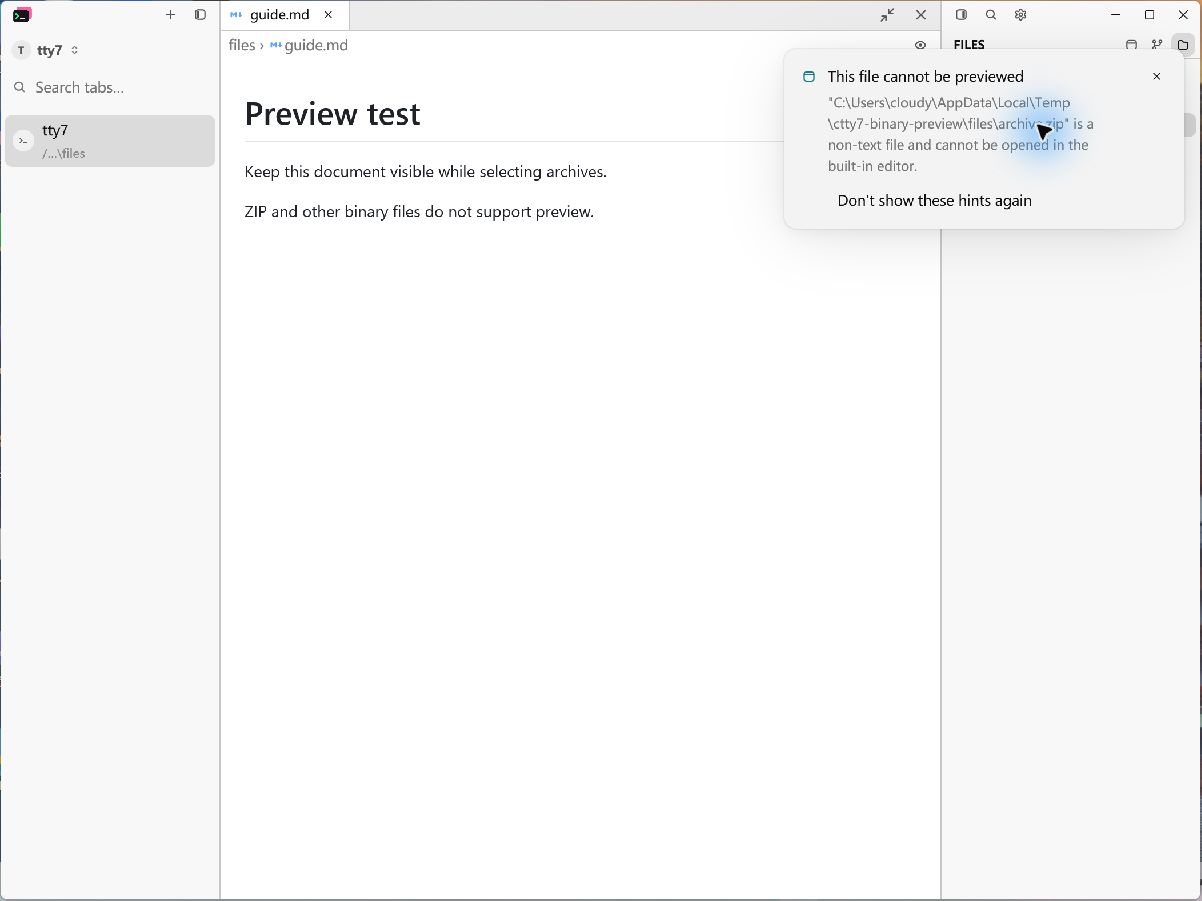
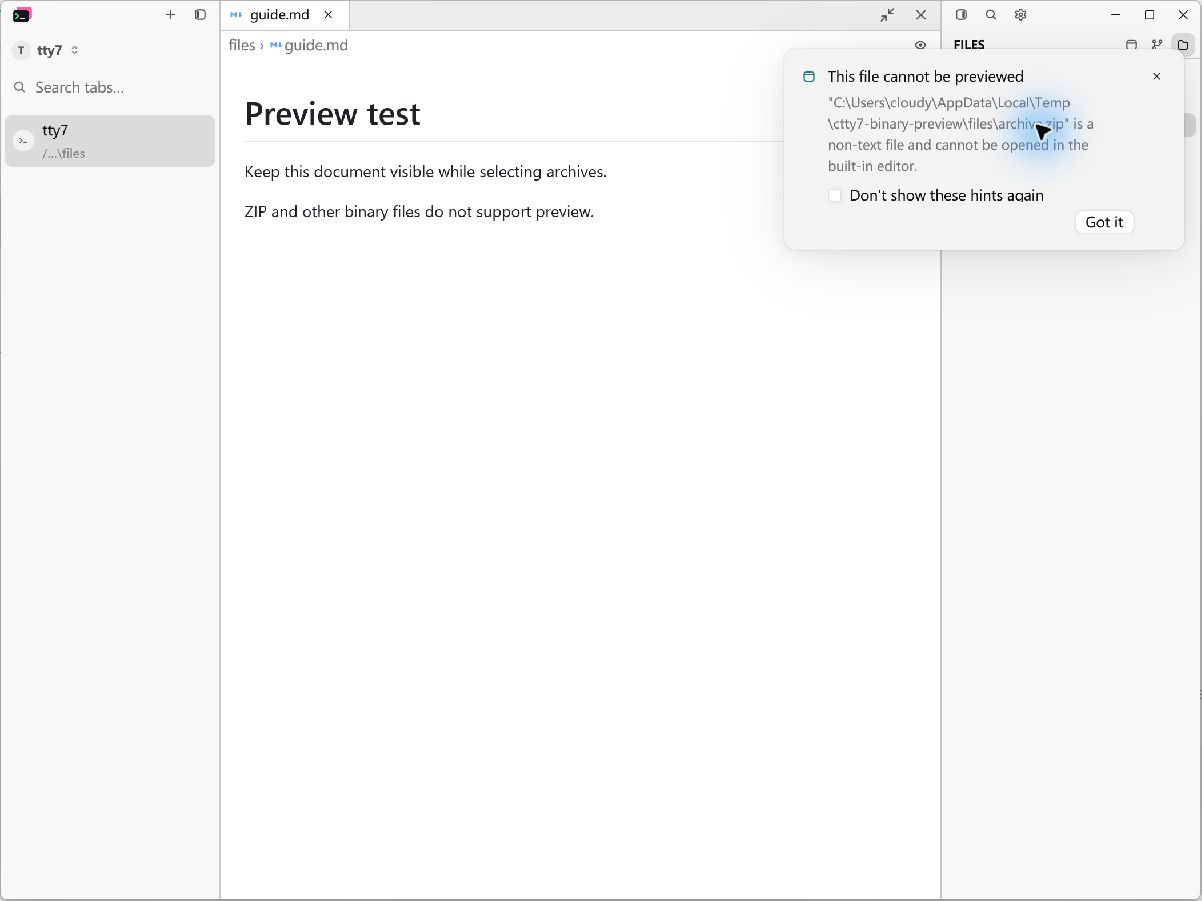
fix(editor): confirm preview opt-out with a checkbox

diff --git a/src/ui/code_editor.rs b/src/ui/code_editor.rs
@@ -10,6 +10,7 @@ use gpui::{
     div, px, rems,
 };
 use gpui_component::button::{Button, ButtonVariants as _};
+use gpui_component::checkbox::Checkbox;
 use gpui_component::input::{Input, InputEvent, InputState, Position, TabSize};
 use gpui_component::menu::ContextMenuExt as _;
 use gpui_component::notification::Notification;
@@ -742,6 +743,7 @@ impl Tty7App {
             return;
         }
         let app = cx.weak_entity();
+        let opt_out = cx.new(|_| false);
         window.push_notification(
             Notification::info(t_fmt(L10nKey::EditorBinaryFile, &[("path", path)]))
                 .title(t(L10nKey::EditorPreviewUnsupported))
@@ -749,20 +751,37 @@ impl Tty7App {
                 .autohide(false)
                 .content(move |_, _, cx| {
                     let app = app.clone();
-                    h_flex()
+                    let toggle_opt_out = opt_out.clone();
+                    let confirm_opt_out = opt_out.clone();
+                    v_flex()
                         .mt_2()
+                        .gap_2()
                         .child(
-                            Button::new("editor-hide-binary-notice")
+                            Checkbox::new("editor-hide-binary-notice")
                                 .debug_selector(|| "editor-hide-binary-notice".into())
-                                .ghost()
                                 .small()
                                 .label(t(L10nKey::EditorDontShowBinaryNotice))
-                                .on_click(cx.listener(move |notice, _, window, cx| {
-                                    let _ = app.update(cx, |app, cx| {
-                                        app.set_binary_file_notice(false, cx)
-                                    });
-                                    notice.dismiss(window, cx);
+                                .checked(*opt_out.read(cx))
+                                .on_click(cx.listener(move |_, checked: &bool, _, cx| {
+                                    toggle_opt_out.update(cx, |value, _| *value = *checked);
+                                    cx.notify();
                                 })),
+                        )
+                        .child(
+                            h_flex().justify_end().child(
+                                Button::new("editor-binary-notice-ok")
+                                    .debug_selector(|| "editor-binary-notice-ok".into())
+                                    .small()
+                                    .label(t(L10nKey::EditorPreviewDismiss))
+                                    .on_click(cx.listener(move |notice, _, window, cx| {
+                                        if *confirm_opt_out.read(cx) {
+                                            let _ = app.update(cx, |app, cx| {
+                                                app.set_binary_file_notice(false, cx)
+                                            });
+                                        }
+                                        notice.dismiss(window, cx);
+                                    })),
+                            ),
                         )
                         .into_any_element()
                 }),
@@ -2540,6 +2559,15 @@ mod tests {
         let mute = vcx.debug_bounds("editor-hide-binary-notice").unwrap();
         vcx.simulate_click(mute.center(), gpui::Modifiers::none());
         vcx.run_until_parked();
+        app.read_with(&vcx, |_, cx| {
+            assert!(
+                cx.global::<Config>().show_binary_file_notice,
+                "checking the box must not persist before confirmation"
+            );
+        });
+        let confirm = vcx.debug_bounds("editor-binary-notice-ok").unwrap();
+        vcx.simulate_click(confirm.center(), gpui::Modifiers::none());
+        vcx.run_until_parked();
         app.update_in(&mut vcx, |app, window, cx| {
             assert!(!cx.global::<Config>().show_binary_file_notice);
             let list = gpui_component::Root::read(window, cx).notification.clone();
@@ -2566,6 +2594,10 @@ mod tests {
             });
         }
         app.update_in(&mut vcx, |app, window, cx| {
+            gpui_component::Root::read(window, cx)
+                .notification
+                .clone()
+                .update(cx, |list, cx| list.clear(window, cx));
             app.set_binary_file_notice(true, cx);
             app.editor_binary_file_notice("restored.zip", window, cx);
             assert!(cx.global::<Config>().show_binary_file_notice);
@@ -2574,6 +2606,19 @@ mod tests {
                 crate::ui::app::OverlayTop::Diff
             );
             assert_eq!(app.tab_code().unwrap().files.len(), 1);
+        });
+        vcx.run_until_parked();
+        vcx.update(|window, cx| {
+            let _ = window.draw(cx);
+        });
+        let confirm = vcx.debug_bounds("editor-binary-notice-ok").unwrap();
+        vcx.simulate_click(confirm.center(), gpui::Modifiers::none());
+        vcx.run_until_parked();
+        app.read_with(&vcx, |_, cx| {
+            assert!(
+                cx.global::<Config>().show_binary_file_notice,
+                "confirming an unchecked box only dismisses this hint"
+            );
         });
     }
 

diff --git a/src/ui/i18n/ja.rs b/src/ui/i18n/ja.rs
@@ -1152,6 +1152,7 @@ pub fn translate_ja(key: L10nKey) -> Option<&'static str> {
         }
         L10nKey::EditorPreviewUnsupported => "このファイルはプレビューできません",
         L10nKey::EditorDontShowBinaryNotice => "今後この種類のヒントを表示しない",
+        L10nKey::EditorPreviewDismiss => "わかりました",
         L10nKey::SettingsBinaryFileNotice => "プレビュー非対応のヒントを表示",
         L10nKey::SettingsBinaryFileNoticeDesc => {
             "圧縮ファイルなど、テキスト以外のファイルを開く際に説明を表示します。読み取りエラーは常に表示されます。"

diff --git a/src/ui/i18n/zh.rs b/src/ui/i18n/zh.rs
@@ -1047,6 +1047,7 @@ pub fn translate_zh(key: L10nKey) -> Option<&'static str> {
         L10nKey::EditorBinaryFile => "“{path}”是非文本文件，无法在内置编辑器中打开。",
         L10nKey::EditorPreviewUnsupported => "此文件不支持预览",
         L10nKey::EditorDontShowBinaryNotice => "不再提示此类消息",
+        L10nKey::EditorPreviewDismiss => "知道了",
         L10nKey::SettingsBinaryFileNotice => "提示不支持预览的文件",
         L10nKey::SettingsBinaryFileNoticeDesc => {
             "点击压缩包等非文本文件时显示说明，不影响读取错误提示。"

diff --git a/src/ui/i18n/en.rs b/src/ui/i18n/en.rs
@@ -1089,6 +1089,7 @@ pub fn translate_en(key: L10nKey) -> &'static str {
         }
         L10nKey::EditorPreviewUnsupported => "This file cannot be previewed",
         L10nKey::EditorDontShowBinaryNotice => "Don't show these hints again",
+        L10nKey::EditorPreviewDismiss => "Got it",
         L10nKey::SettingsBinaryFileNotice => "Show unsupported preview hints",
         L10nKey::SettingsBinaryFileNoticeDesc => {
             "Show a hint when opening archives or other non-text files. Read errors are always shown."

diff --git a/src/ui/i18n/mod.rs b/src/ui/i18n/mod.rs
@@ -795,6 +795,7 @@ l10n_keys! {
     EditorBinaryFile,
     EditorPreviewUnsupported,
     EditorDontShowBinaryNotice,
+    EditorPreviewDismiss,
     PanelInfoTitle,
     PanelChangesTitle,
     PanelScmTitle,

diff --git a/docs/testing/binary-preview-notifications.md b/docs/testing/binary-preview-notifications.md
@@ -2,7 +2,9 @@
 
 Clicking an archive or another detected binary file keeps the current document
 and shows an informational notification with a **Don't show these hints again**
-button. The choice is saved as `show_binary_file_notice: false` in `config.json`.
+checkbox and a **Got it** button. Checking the box keeps the hint visible;
+pressing **Got it** saves `show_binary_file_notice: false` in `config.json`
+and dismisses it. Leaving the box unchecked only dismisses the current hint.
 The **Window & Tabs → Notifications → Show unsupported preview hints** setting
 restores these hints. Missing files, read failures, oversized text files and
 unsupported text encodings still report their own errors.
@@ -54,8 +56,11 @@ Copy the resulting executable outside `target` before launching it. Pass
 `--config-dir <scratch>/after-config --document-visual <scratch>/after-options.json`.
 Wait for `NATIVE_DOCUMENT_READY_FOR_CAPTURE` in stderr. Click `archive.zip` in
 the Files panel, then click `binary.dat` repeatedly. Only one unsupported-preview
-hint should remain. Click its opt-out button, repeat both file selections, and
-inspect `config.json` for the saved false value. The guide and its single tab
+hint should remain. First leave the checkbox unchecked and press **Got it**;
+selecting the archive again must still show the hint. Then check the box and
+verify that the hint remains visible and the setting has not yet changed. Press
+**Got it**, repeat both file selections, and inspect `config.json` for the saved
+false value. The guide and its single tab
 must remain visible throughout.
 
 Open Settings and use its search to find **Show unsupported preview hints**.
@@ -82,15 +87,27 @@ capture API. Screenshots are unmodified captures of the running application.
 
 ![Before: another binary file uses the same non-actionable message.](images/binary-preview-notifications/before-binary.jpg)
 
-![After: the explanation has a persistent opt-out action below the file description.](images/binary-preview-notifications/after-archive.jpg)
+![After: an initially unchecked opt-out checkbox and a separate Got it button.](images/binary-preview-notifications/after-archive.jpg)
 
-![After opting out: the archive is selected, the guide remains open, and no hint appears.](images/binary-preview-notifications/after-muted.jpg)
+![After checking the box and confirming: the archive is selected, the guide remains open, and no hint appears.](images/binary-preview-notifications/after-muted.jpg)
 
 ![Recovery: the searchable Notifications setting re-enables unsupported-preview hints.](images/binary-preview-notifications/after-settings.jpg)
 
 ![After restoring the setting: selecting the archive shows the hint again.](images/binary-preview-notifications/after-restored.jpg)
 
 ![With hints disabled: an invalid UTF-8 text file still displays its encoding error.](images/binary-preview-notifications/after-read-error.jpg)
+
+## Checkbox interaction
+
+The first PR iteration used a one-click opt-out action. The final interaction
+uses a visible checkbox and an explicit acknowledgement. Both images below use
+the same fixture, viewport, scale, theme and enabled preference.
+
+| Before | After | Why |
+| --- | --- | --- |
+| ![One-click opt-out](images/binary-preview-notifications/before-checkbox.jpg) | ![Checkbox and acknowledgement](images/binary-preview-notifications/after-archive.jpg) | Make the persistent preference visible and apply it when the user confirms. |
+
+![Checked but not yet confirmed: the hint remains open.](images/binary-preview-notifications/after-checked.jpg)
 
 ## Verification
 
@@ -114,7 +131,8 @@ and stderr when running this GUI-subsystem test executable directly.
 `bash .github/scripts/check-host-boundary.sh` also passed.
 
 The new regression covers uppercase and oversized archives, binary content,
-notification deduplication, the opt-out button, restoring the preference,
+notification deduplication, selecting the checkbox without saving early,
+confirming with and without the checkbox, restoring the preference,
 preserving the current document/overlay, and showing missing-file and encoding
 errors while hints are muted. The config regression checks the enabled default
 for old configuration files and serialization of the disabled preference.
